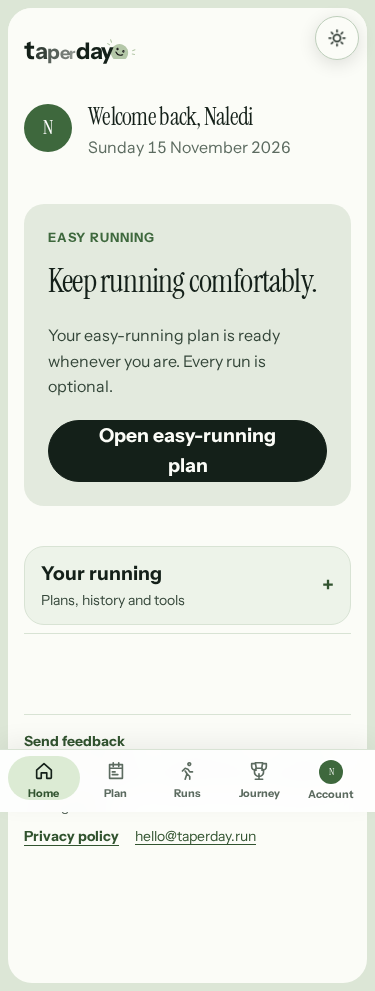
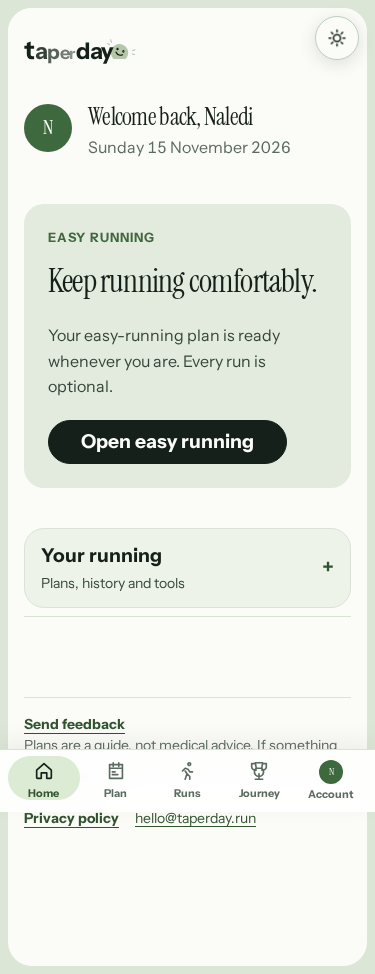
fix(home): give every post-plan stage one clear next action

diff --git a/client/e2e/training-recovery.spec.ts b/client/e2e/training-recovery.spec.ts
@@ -79,20 +79,23 @@ async function setup(page: Page, options: { finished?: boolean; recovering?: boo
 
 async function accessible(page: Page) {
   await page.evaluate(() => document.fonts.ready)
-  expect(await page.evaluate(() => document.documentElement.scrollWidth - innerWidth)).toBeLessThanOrEqual(1)
   const result = await new AxeBuilder({ page }).withTags(['wcag2a', 'wcag2aa', 'wcag21a', 'wcag21aa', 'wcag22aa']).analyze()
   expect(result.violations.map(v => ({ id: v.id, targets: v.nodes.map(n => n.target) }))).toEqual([])
+  expect(await page.evaluate(() => document.documentElement.scrollWidth - innerWidth)).toBeLessThanOrEqual(1)
 }
 
 async function calmHome(page: Page) {
-  await expect(page.getByRole('region', { name: 'This week', exact: true })).toHaveCount(0)
-  await expect(page.getByRole('region', { name: 'Latest run', exact: true })).toHaveCount(0)
-  await expect(page.getByRole('region', { name: 'Today', exact: true })).toHaveCount(0)
-  await expect(page.getByText(/Add training feedback/)).toHaveCount(0)
-  await expect(page.getByText('Something to run towards?', { exact: true })).toHaveCount(0)
-  await expect(page.getByRole('heading', { name: 'Couch to 5K', exact: true })).toHaveCount(0)
-  await expect(page.locator('.home-focus > .journey-home')).toHaveCount(1)
-  await expect(page.locator('.home-more')).not.toHaveAttribute('open')
+  // Assert one atomic DOM state, including hidden leftovers.
+  const home = await page.evaluate(() => {
+    const root = document.querySelector('.home')!
+    return {
+      oldPanels: root.querySelectorAll('.home-top, .home-sync, .home-strava-invite, .first-week, #home-goal, #beginner-home-heading').length,
+      repeatQuestions: /Add training feedback|Something to run towards\?|Couch to 5K/.test(root.textContent ?? ''),
+      chapters: root.querySelectorAll('.home-focus > .journey-home').length,
+      detailsOpen: root.querySelector('.home-more')?.hasAttribute('open'),
+    }
+  })
+  expect(home).toEqual({ oldPanels: 0, repeatQuestions: false, chapters: 1, detailsOpen: false })
 }
 
 test('race day ends at the runner’s midnight without assuming a result or starting recovery @phone', async ({ page }, info) => {
@@ -140,12 +143,28 @@ test('concluded training → saved recording → separate recovery → Home/Plan
   await expect(page.getByRole('heading', { name: 'Your recovery plan.', exact: true })).toBeVisible()
   await expect(page.locator('.race-result, .training-story')).toHaveCount(0)
   await expect(page.getByLabel('Distance (km)', { exact: true })).toHaveCount(0)
+  const nav = page.getByRole('navigation', { name: 'Main', exact: true })
+  await nav.getByRole('button', { name: 'Home', exact: true }).click()
+  await expect(page.getByRole('button', { name: 'Start recovery plan', exact: true })).toBeVisible()
+  await calmHome(page)
+  await expect(page.locator('.journey-home button')).toHaveCount(1)
+  expect(state.starts).toHaveLength(0)
+  if (info.project.name === 'desktop') {
+    await mkdir(homeQa, { recursive: true })
+    await page.setViewportSize({ width: 375, height: 812 })
+    for (const mode of ['light', 'dark']) {
+      await page.evaluate(value => { document.documentElement.dataset.theme = value }, mode)
+      await accessible(page)
+      await page.screenshot({ path: `${homeQa}/race-confirmed-375-${mode}.png`, fullPage: true })
+    }
+  }
+  await page.getByRole('button', { name: 'Start recovery plan', exact: true }).click()
+  await expect(page.getByRole('heading', { name: 'Your recovery plan.', exact: true })).toBeVisible()
   await page.getByRole('button', { name: 'Start my recovery', exact: true }).dblclick()
   await expect(page.getByRole('button', { name: 'Good to go', exact: true })).toBeVisible()
   expect(state.starts).toHaveLength(1)
   expect(state.starts[0]).toMatchObject({ planId: PLAN_ID, eventName: 'Hoka Half', raceDate: '2026-11-14', distanceKm: 20.3 })
   expect(state.recovery?.id).not.toBe(PLAN_ID)
-  const nav = page.getByRole('navigation', { name: 'Main', exact: true })
   await nav.getByRole('button', { name: 'Home', exact: true }).click()
   await expect(page.getByRole('button', { name: 'Open recovery plan', exact: true })).toBeVisible()
   await expect(page.getByRole('button', { name: 'Good to go', exact: true })).toHaveCount(0)
@@ -173,7 +192,7 @@ test('concluded training → saved recording → separate recovery → Home/Plan
   await page.getByRole('button', { name: 'Start easy running', exact: true }).click()
   await expect(page.getByRole('heading', { name: 'Your easy-running plan.', exact: true })).toBeVisible()
   await nav.getByRole('button', { name: 'Home', exact: true }).click()
-  await expect(page.getByRole('button', { name: 'Open easy-running plan', exact: true })).toBeVisible()
+  await expect(page.getByRole('button', { name: 'Open easy running', exact: true })).toBeVisible()
   await calmHome(page)
   if (info.project.name === 'desktop') {
     await mkdir(homeQa, { recursive: true })
@@ -242,16 +261,9 @@ test('Home stays simple after recovery and months later, with running details av
   state.recovery = { ...state.recovery!, status: 'Completed', endedOn: '2026-11-24' }
   await page.clock.setFixedTime(new Date('2026-11-29T08:00:00Z'))
   await page.goto(`${fixture}?view=home`)
-  await expect(page.getByRole('button', { name: 'Choose my next chapter', exact: true })).toBeVisible()
-  await calmHome(page)
+  await expect(page.getByRole('button', { name: "Choose what's next", exact: true })).toBeVisible()
   expect(state.detailsReads).toBe(0)
-  if (info.project.name === 'desktop') await mkdir(homeQa, { recursive: true })
-  for (const width of [320, 375, 820, 1440]) for (const mode of ['light', 'dark']) {
-    await page.setViewportSize({ width, height: 900 })
-    await page.evaluate(value => { document.documentElement.dataset.theme = value }, mode)
-    await accessible(page)
-    if (info.project.name === 'desktop' && [375, 1440].includes(width)) await page.screenshot({ path: `${homeQa}/recovered-${width}-${mode}.png`, fullPage: true })
-  }
+  await calmHome(page)
   await page.locator('.home-more > summary').click()
   await page.locator('.home-insights > summary').click()
   await expect(page.getByRole('heading', { name: 'Your running', exact: true })).toBeVisible()
@@ -272,4 +284,51 @@ test('Home stays simple after recovery and months later, with running details av
   }
   await page.getByRole('button', { name: 'View my journey', exact: true }).click()
   await expect(page.getByRole('heading', { name: 'Finished in 2:06:15', exact: true })).toBeVisible()
+})
+
+test('post-recovery Home is accessible at narrow, phone, tablet and desktop widths in both themes @phone', async ({ page }, info) => {
+  const { state } = await setup(page, { recovering: true })
+  state.recovery = { ...state.recovery!, status: 'Completed', endedOn: '2026-11-24' }
+  await page.clock.setFixedTime(new Date('2026-11-29T08:00:00Z'))
+  await page.goto(`${fixture}?view=home`)
+  await expect(page.getByRole('button', { name: "Choose what's next", exact: true })).toBeVisible()
+  expect(state.detailsReads).toBe(0)
+  if (info.project.name === 'desktop') await mkdir(homeQa, { recursive: true })
+  for (const width of [320, 375, 820, 1440]) for (const mode of ['light', 'dark']) {
+    await page.setViewportSize({ width, height: 900 })
+    await page.evaluate(value => { document.documentElement.dataset.theme = value }, mode)
+    await accessible(page)
+    if (info.project.name === 'desktop' && [375, 1440].includes(width)) await page.screenshot({ path: `${homeQa}/recovered-${width}-${mode}.png`, fullPage: true })
+  }
+  await calmHome(page)
+  expect(state.detailsReads).toBe(0)
+})
+
+test('ending recovery keeps one next action on Home and recent activities in Runs @phone', async ({ page }, info) => {
+  const { state } = await setup(page, { recovering: true })
+  state.recovery = { ...state.recovery!, status: 'Ended', endedOn: '2026-11-18' }
+  await page.clock.setFixedTime(new Date('2026-11-29T08:00:00Z'))
+  await page.setViewportSize({ width: 375, height: 812 })
+  await page.goto(`${fixture}?view=home`)
+  await expect(page.getByRole('button', { name: "Choose what's next", exact: true })).toBeVisible()
+  await calmHome(page)
+  await expect(page.locator('.journey-home button')).toHaveCount(1)
+  expect(state.detailsReads).toBe(0)
+  if (info.project.name === 'desktop') {
+    await mkdir(homeQa, { recursive: true })
+    for (const mode of ['light', 'dark']) {
+      await page.evaluate(value => { document.documentElement.dataset.theme = value }, mode)
+      await accessible(page)
+      await page.screenshot({ path: `${homeQa}/recovery-ended-375-${mode}.png`, fullPage: true })
+    }
+  }
+  const nav = page.getByRole('navigation', { name: 'Main', exact: true })
+  await nav.getByRole('button', { name: 'Runs', exact: true }).click()
+  await expect(page).toHaveURL(/view=runs/)
+  await expect(page.getByText('20.3 km', { exact: true }).first()).toBeVisible()
+  await nav.getByRole('button', { name: 'Home', exact: true }).click()
+  await expect(page.getByRole('button', { name: "Choose what's next", exact: true })).toBeVisible()
+  await calmHome(page)
+  await page.getByRole('button', { name: "Choose what's next", exact: true }).click()
+  await expect(page.getByRole('heading', { name: 'Choose your next chapter.', exact: true })).toBeVisible()
 })

diff --git a/client/src/features/journey/JourneyHomeCard.tsx b/client/src/features/journey/JourneyHomeCard.tsx
@@ -38,7 +38,7 @@ export function JourneyHomeCard({ journey, today, currentPlanId, onOpenPlan, onO
         <p className="plan-kicker">Easy running</p>
         <h2 className="home-card-heading">Keep running comfortably.</h2>
         <p>Your easy-running plan is ready whenever you are. Every run is optional.</p>
-        <button type="button" className="button button-primary" onClick={() => (onOpenRecovery ?? onOpenPlan)()}>Open easy-running plan</button>
+        <button type="button" className="button button-primary" onClick={() => (onOpenRecovery ?? onOpenPlan)()}>Open easy running</button>
       </section>
     )
   }
@@ -48,7 +48,7 @@ export function JourneyHomeCard({ journey, today, currentPlanId, onOpenPlan, onO
         <p className="plan-kicker">{recovery.status === 'Completed' ? 'Recovered' : 'Recovery ended'}</p>
         <h2 id="journey-home-next" className="home-card-heading">What’s next?</h2>
         <p>Keep running comfortably, train for another race, or take more time. Nothing changes until you choose.</p>
-        <button type="button" className="button button-primary" onClick={() => (onOpenRecovery ?? onOpenPlan)()}>Choose my next chapter</button>
+        <button type="button" className="button button-primary" onClick={() => (onOpenRecovery ?? onOpenPlan)()}>Choose what's next</button>
       </section>
     )
   }
@@ -59,8 +59,9 @@ export function JourneyHomeCard({ journey, today, currentPlanId, onOpenPlan, onO
     <p>Your training chapter is saved in Journey.</p>
     {concluded.raceResult?.outcome === 'Finished' && concluded.raceResult.finishTime && <p className="mono">{formatClock(concluded.raceResult.finishTime)} · {concluded.raceResult.timeKind === 'RecordedElapsed' ? 'Recording elapsed time' : concluded.raceResult.timeKind === 'OfficialChip' ? 'Official chip time' : 'Finish time'}</p>}
     <div className="journey-actions">
-      <button type="button" className="button button-primary" onClick={() => onOpenJourney ? onOpenJourney(concluded.planId) : onOpenPlan()}>Review my race</button>
-      {recoveryWelcome(concluded.raceResult?.outcome) && onOpenRecovery && <button type="button" className="button" onClick={() => onOpenRecovery(concluded.raceResult?.id)}>Start recovery plan</button>}
+      {recoveryWelcome(concluded.raceResult?.outcome) && onOpenRecovery
+        ? <button type="button" className="button button-primary" onClick={() => onOpenRecovery(concluded.raceResult?.id)}>Start recovery plan</button>
+        : <button type="button" className="button button-primary" onClick={() => onOpenJourney ? onOpenJourney(concluded.planId) : onOpenPlan()}>Review my race</button>}
     </div>
   </section>
   const past = !currentPlanId ? lastTrainingChapter(journey.state.journey, today) : null

diff --git a/client/src/features/runner-home/HomeAfterTraining.test.tsx b/client/src/features/runner-home/HomeAfterTraining.test.tsx
@@ -76,10 +76,31 @@ it('keeps recovery first even when the runner has already saved future training'
   expect(coach).not.toHaveBeenCalled()
 })
 
+it.each(['Finished', 'DidNotFinish'] as const)('offers one recovery action for a confirmed %s, using the saved race', async outcome => {
+  const result = raceResult({ outcome })
+  const opened = show(journeyOf([chapter({ status: 'Concluded', lifecycle: 'Concluded', raceResult: result })]))
+  expectQuietHome()
+  expect(document.querySelectorAll('.journey-home button')).toHaveLength(1)
+  expect(screen.queryByRole('button', { name: 'Review my race' })).not.toBeInTheDocument()
+  await opened.user.click(screen.getByRole('button', { name: 'Start recovery plan' }))
+  expect(opened.onOpenRecovery).toHaveBeenCalledWith(result.id)
+})
+
+it.each([
+  { status: 'Paused' as const, seekCare: false, safetyMessage: null },
+  { status: 'Active' as const, seekCare: true, safetyMessage: 'Stop exercise and seek medical advice.' },
+])('keeps recovery safety and pause state visible without bringing training prompts back: %o', state => {
+  show(journeyOf([], { recovery: recovery(state) }))
+  expectQuietHome()
+  expect(screen.getByRole('button', { name: 'Open recovery plan' })).toBeVisible()
+  if (state.seekCare) expect(screen.getByRole('alert')).toHaveTextContent(state.safetyMessage!)
+  else expect(screen.getByRole('heading', { name: 'Recovery paused' })).toBeVisible()
+})
+
 it.each(['Completed', 'Ended'] as const)('keeps %s recovery focused on the next chapter after race week has passed', async status => {
   const opened = show(journeyOf([chapter({ status: 'Concluded' })], { recovery: recovery({ status }) }), { today: '2026-12-02' })
   expectQuietHome()
-  await opened.user.click(screen.getByRole('button', { name: 'Choose my next chapter' }))
+  await opened.user.click(screen.getByRole('button', { name: "Choose what's next" }))
   expect(opened.onOpenRecovery).toHaveBeenCalledOnce()
 })
 
@@ -89,7 +110,7 @@ it('keeps maintenance to one plan action, with its schedule and choices on its o
   expect(screen.getByRole('heading', { name: 'Keep running comfortably.' })).toBeVisible()
   expect(screen.queryByRole('list', { name: 'Coming up' })).not.toBeInTheDocument()
   expect(screen.queryByRole('button', { name: 'Train for another race' })).not.toBeInTheDocument()
-  await opened.user.click(screen.getByRole('button', { name: 'Open easy-running plan' }))
+  await opened.user.click(screen.getByRole('button', { name: 'Open easy running' }))
   expect(opened.onOpenRecovery).toHaveBeenCalledOnce()
 })
 

diff --git a/client/src/features/journey/JourneyHomeCard.test.tsx b/client/src/features/journey/JourneyHomeCard.test.tsx
@@ -15,7 +15,7 @@ function show(data: Journey) {
 
 it('opens the independent easy-running plan after training and recovery have ended', async () => {
   const opened = show(journeyOf([], { maintenance: maintenance() }))
-  await userEvent.click(screen.getByRole('button', { name: 'Open easy-running plan' }))
+  await userEvent.click(screen.getByRole('button', { name: 'Open easy running' }))
   expect(opened.onOpenRecovery).toHaveBeenCalledOnce()
   expect(opened.onOpenPlan).not.toHaveBeenCalled()
 })
@@ -34,6 +34,8 @@ it('reuses a confirmed finish when opening its independent recovery plan', async
   const result = raceResult({ finishTime: '02:06:15', distanceKm: 20.3, timeKind: 'RecordedElapsed' })
   const opened = show(journeyOf([chapter({ status: 'Concluded', lifecycle: 'Concluded', raceResult: result })]))
   expect(screen.getByText(/2:06:15.*Recording elapsed time/)).toBeVisible()
+  expect(screen.getAllByRole('button')).toHaveLength(1)
+  expect(screen.queryByRole('button', { name: 'Review my race' })).not.toBeInTheDocument()
   await userEvent.click(screen.getByRole('button', { name: 'Start recovery plan' }))
   expect(opened.onOpenRecovery).toHaveBeenCalledWith(result.id)
   expect(opened.onOpenPlan).not.toHaveBeenCalled()

diff --git a/docs/qa/2026-11-15/home-simplicity/README.md b/docs/qa/2026-11-15/home-simplicity/README.md
@@ -6,15 +6,17 @@ Before screenshots use PR #268's previous head, `51c20d9`. After screenshots use
 | --- | --- | --- |
 | Recovery, phone, Night Run | [Previous Home](before-home-recovery-375-dark.png) | [One recovery card](../phase-handoff/home-recovery-375-dark.png) |
 | Training concluded, phone, light | [Previous Home](before-home-concluded-375-light.png) | [Saved chapter](../phase-handoff/home-concluded-375-light.png) |
+| Race confirmed, recovery not started | — | [Light](race-confirmed-375-light.png), [Night Run](race-confirmed-375-dark.png) |
 | Recovery complete, phone | — | [Light](recovered-375-light.png), [Night Run](recovered-375-dark.png) |
 | Recovery complete, desktop | — | [Light](recovered-1440-light.png), [Night Run](recovered-1440-dark.png) |
+| Recovery ended, phone | — | [Light](recovery-ended-375-light.png), [Night Run](recovery-ended-375-dark.png) |
 | Easy-running maintenance, phone | — | [Light](maintenance-375-light.png), [Night Run](maintenance-375-dark.png) |
 | Saved history months later | — | [Night Run](saved-history-375-dark.png) |
 
-Default Home has the greeting, one current-stage card and a closed “Your running” row. It no longer stacks weekly totals, the latest run, training-feedback prompts and onboarding/connection offers under recovery. Recovery readiness and safety controls remain on the independent Plan screen; an actual safety warning still appears in the Home preview.
+Default Home has the greeting, one current-stage card and a closed “Your running” row. It no longer stacks weekly totals, the latest run, training-feedback prompts and onboarding/connection offers under recovery. An unconfirmed race leads to review; a confirmed finish or DNF offers recovery using that saved result; active recovery opens its own plan; completed or ended recovery leads to the next chapter. Recovery readiness and safety controls remain on the independent Plan screen; an actual safety warning still appears in the Home preview.
 
-Totals and all-time history load when details are opened. Generic readiness questions stay off post-training Home. Tools bookmarks and saved Couch to 5K programmes remain accessible. A failed or pending lookup never becomes an empty running history; account ownership guards remain in place.
+Totals and all-time history load when details are opened. Generic readiness questions stay off post-training Home. Recent activities stay one tap away in Runs; historical plans, race details and achievements stay in Journey. The existing bottom navigation, animation and colours remain. Tools bookmarks and saved Couch to 5K programmes remain accessible. A failed or pending lookup never becomes an empty running history; account ownership guards remain in place.
 
-`HomeAfterTraining.test.tsx` covers concluded training, active recovery with future training, completed/ended recovery, maintenance, older retained chapters, deferred requests, calculator bookmarks, saved beginner programmes and initial loading. Existing Home tests retain training, logging, source expiry and account isolation assertions with explicit resolved journey fixtures. `training-recovery.spec.ts` drives the transitions, default-screen simplicity, deferred requests, tools/reload and the saved race months later; accessibility checks cover 320, 375, 820 and 1440px in both themes and the additional browser matrix.
+`HomeAfterTraining.test.tsx` covers concluded training, confirmed finishes/DNFs, active recovery with future training, paused recovery and safety alerts, completed/ended recovery, maintenance, older retained chapters, deferred requests, calculator bookmarks, saved beginner programmes and initial loading. Existing Home tests retain training, logging, source expiry and account isolation assertions with explicit resolved journey fixtures. `training-recovery.spec.ts` drives the transitions, default-screen simplicity, deferred requests, tools/reload, recent activity access and the saved race months later; accessibility checks cover 320, 375, 820 and 1440px in both themes and the additional browser matrix. Responsive audits and navigation checks use separate browser contexts to avoid a native Firefox crash after repeated audit/layout queries; every WCAG tag and navigation assertion remains enabled.
 
 Browser profiles and account/Strava replies are synthetic. Physical native sharing and live Entra/Strava sessions remain outside this evidence. No backend or generator behavior changes in this Home cleanup. Full results are recorded in PR #268 and its CI runs.

diff --git a/docs/journey-and-trophy-cabinet.md b/docs/journey-and-trophy-cabinet.md
@@ -4,7 +4,7 @@ Journey is a permanent account destination, available with or without a current 
 
 ## Training chapters
 
-Home follows the runner's current stage after training: a saved chapter, a recovery preview, easy running or the next chapter. Weekly dashboard cards, recent runs, training-feedback prompts and connection/install offers leave the default post-training screen. The “Your running” row retains totals, calculators and any saved beginner programme, loading those details when opened. Bookmarked tools still work. Older completed chapters keep this calm Home after race week; a new current training plan restores Today and weekly progress. The app waits for the current-plan and journey lookups before showing onboarding or fetching dashboard totals.
+Home follows the runner's current stage after training: a saved chapter, a recovery preview, easy running or the next chapter. An unconfirmed race has one review action; a confirmed finish or DNF offers recovery using the saved result. Weekly dashboard cards, recent runs, training-feedback prompts and connection/install offers leave the default post-training screen. Recent activities remain in Runs; historical plans, achievements and race details remain in Journey. The “Your running” row retains totals, calculators and any saved beginner programme, loading those details when opened. Bookmarked tools still work. Older completed chapters keep this calm Home after race week; a new current training plan restores Today and weekly progress. The app waits for the current-plan and journey lookups before showing onboarding or fetching dashboard totals.
 
 Training automatically concludes after the runner's local race day. It is saved as a `Concluded` chapter, regardless of whether the result is known or recovery has started. Recovery no longer changes the training chapter's lifecycle. Home links straight to its saved race review; missing results still need appropriate confirmation. See [plan history](plan-history.md) for midnight, offline check-in and historical-link behavior.
 
